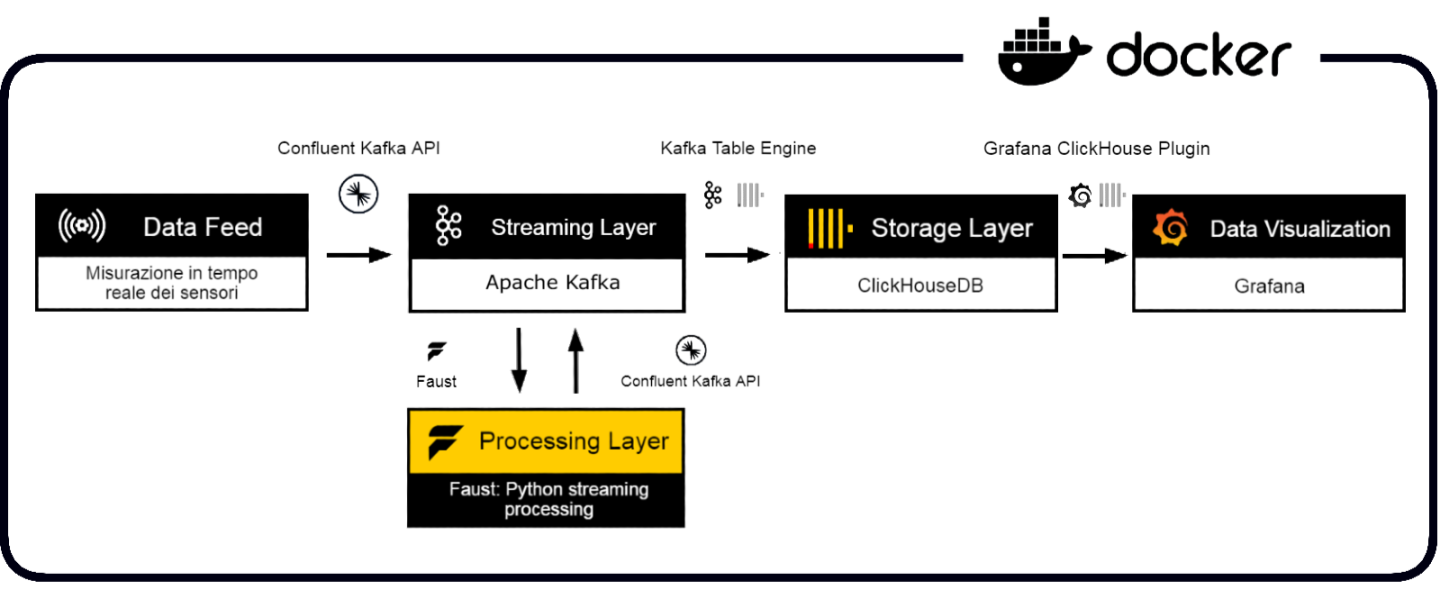
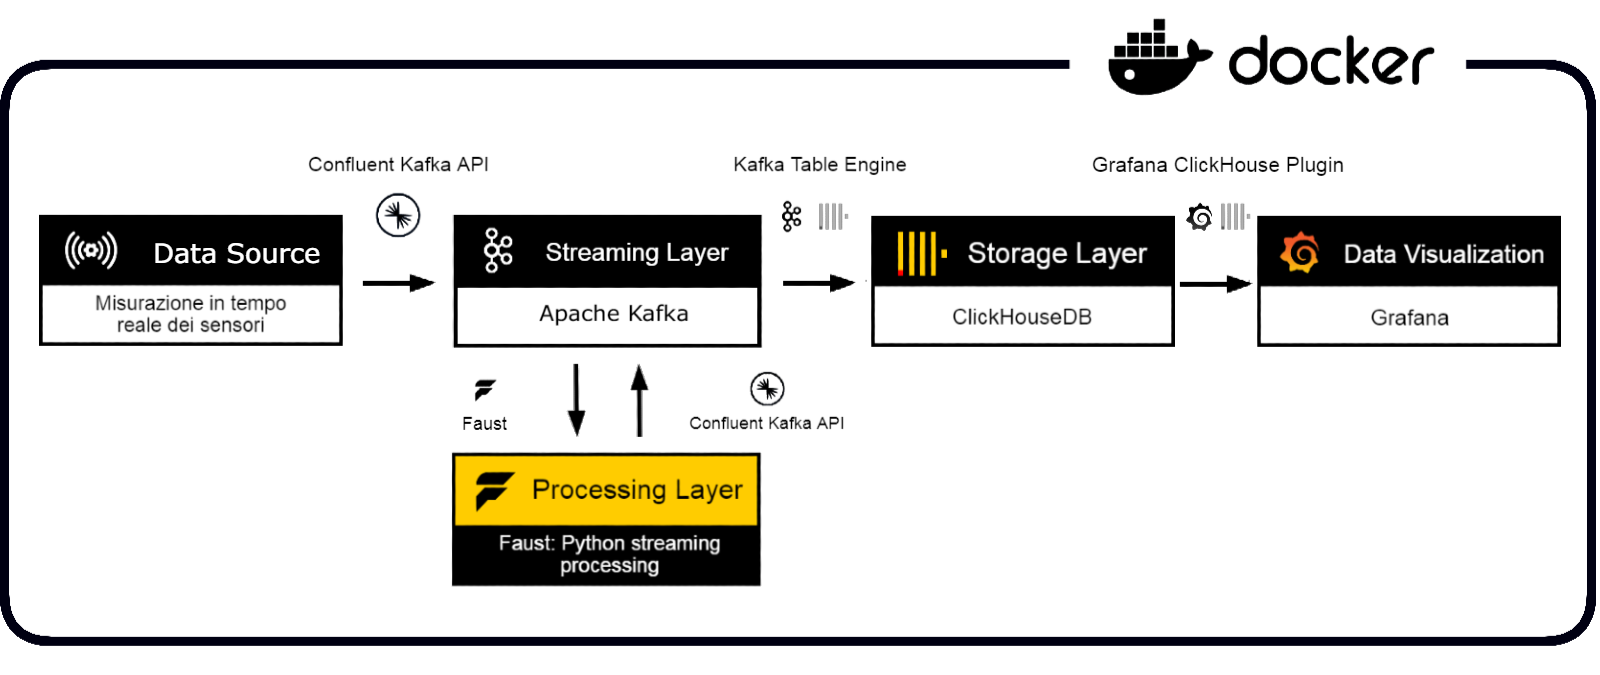
riferimenti

diff --git a/Documenti_Interni/Sottosezioni/Specifica_tecnica/Grafana_config.tex b/Documenti_Interni/Sottosezioni/Specifica_tecnica/Grafana_config.tex
@@ -31,7 +31,8 @@ Per soddisfare tutti i requisiti definiti in \textit{Analisi dei requisiti v2.0.
 
 
 \subsubsection{ClickHouse data source plugin} \label{sec:click_plugin}
-\paragraph{Documentazione:} \href{https://grafana.com/grafana/plugins/grafana-clickhouse-datasource/}{https://grafana.com/grafana/plugins/grafana-clickhouse-datasource/}
+\paragraph{Documentazione:}
+\href{https://grafana.com/grafana/plugins/grafana-clickhouse-datasource/}{https://grafana.com/grafana/plugins/grafana-clickhouse-datasource/}
 
 Questo plugin di grafana consente di connettersi a un'istanza di ClickHouse e di visualizzare i dati in tempo reale. È possibile eseguire query SQL personalizzate e visualizzare i risultati in forma di grafici, tabelle e pannelli personalizzati. Il plugin offre anche funzionalità di aggregazione e di calcolo dei dati, consentendo di analizzare e visualizzare i dati in modo flessibile e personalizzato.
 
@@ -49,15 +50,16 @@ Quelle utilizzate sono:
 \end{itemize}
 
 \subsubsection{Variabili Grafana}
-\paragraph*{Documentazione:} \href{https://grafana.com/docs/grafana/latest/dashboards/variables/}{https://grafana.com/docs/grafana/latest/dashboards/variables/}
+\paragraph*{Documentazione:}
+ \href{https://grafana.com/docs/grafana/latest/dashboards/variables/}{https://grafana.com/docs/grafana/latest/dashboards/variables/}
 
 
  Le variabili in Grafana sono un potente strumento per rendere le dashboard dinamiche e interattive. Permettono di filtrare i dati visualizzati in base a valori scelti dall'utente, rendendo la dashboard più versatile e adattabile a differenti esigenze.
 \paragraph*{Utilizzo delle variabili nella dashboard principale:}
 Nella dashboard principale, le variabili sono:
 \begin{itemize}
-    \item \textbf{variabile \$cella}: per mostrare solo le misurazioni provenienti da determinate celle della città, 
-    \item \textbf{variabili \$<TipoSensore>\_sensors\_id}: per mostrare le misurazioni di determinati sensori di un certo tipo.
+    \item \textbf{variabile (\$cella)}: per mostrare solo le misurazioni provenienti da determinate celle della città, 
+    \item \textbf{variabili (\$<TipoSensore>\_sensors\_id)}: per mostrare le misurazioni di determinati sensori di un certo tipo.
 \end{itemize}
 Queste variabili all'interno delle query al database permettono il filtraggio delle misurazioni sulla base di quanto selezionato dall'utente.
 Un esempio di query per la visualizzazione delle misurazioni time-series di temperatura è:
@@ -73,22 +75,27 @@ La query esposta mostra anche l'utilizzo delle macro esposte in: \ref{sec:macros
 \paragraph*{Utilizzo delle variabili nella dashboard dedicata:}
 Nella dashboard dedicata alla visualizzazione spefica delle misurazioni di una sola tipologia di sensori, le variabili sono:
 \begin{itemize}
-    \item \textbf{variabile \$cella}: per mostrare solo le misurazioni provenienti da determinate celle della città, 
-    \item \textbf{variabili \$<TipoSensore>\_sensors\_id}: per mostrare le misurazioni di determinati sensori di un certo tipo.
-    \item \textbf{variabili \$tabella}: per selezionare la tipoligia di sensore di cui si vuole visualizzare la dashboard dedicata e quindi la tabella del database da cui ricavare i dati.
-    \item \textbf{\$aggregazione}: variabile per selezionare l'intervallo temporale di aggregazione delle misurazioni
+    \item \textbf{variabile (\$cella)}: per mostrare solo le misurazioni provenienti da determinate celle della città, 
+    \item \textbf{variabili (\$<TipoSensore>\_sensors\_id)}: per mostrare le misurazioni di determinati sensori di un certo tipo.
+    \item \textbf{variabili (\$tabella)}: per selezionare la tipoligia di sensore di cui si vuole visualizzare la dashboard dedicata e quindi la tabella del database da cui ricavare i dati.
+    \item \textbf{(\$aggregazione)}: variabile per selezionare l'intervallo temporale di aggregazione delle misurazioni
     (Automatico, Secondo,Minuto,Ora,Giorno,Mese,Nessuno).
     Nel caso della selezione della modalità "Automatico" si utilizzza l'intervallo temporale di aggregazione più opportuno sulla base dell'ampiezza dell'intervallo temporale selezionato dall'utente.
-    \item \textbf{\$Max\_value}: variabile ad input numerico per filtrare le misurazioni con valore al di sotto di quello indicato.
-    \item \textbf{\$Min\_value}: variabile ad input numerico per filtrare le misurazioni con valore al di sopra di quello indicato.
+    \item \textbf{(\$Max\_value)}: variabile ad input numerico per filtrare le misurazioni con valore al di sotto di quello indicato.
+    \item \textbf{(\$Min\_value)}: variabile ad input numerico per filtrare le misurazioni con valore al di sopra di quello indicato.
 \end{itemize}
 \paragraph{Variable Panel plugin}
-\textbf{Documentazione:} \href{https://volkovlabs.io/plugins/volkovlabs-variable-panel/}{https://volkovlabs.io/plugins/volkovlabs-variable-panel/}
+\textbf{Documentazione:}
+\href{https://volkovlabs.io/plugins/volkovlabs-variable-panel/}{https://volkovlabs.io/plugins/volkovlabs-variable-panel/}
+
+
 Il plugin permette di creare dei pannelli grafana che possono essere posizionati ovunque nella Dashboard e che consentono di selezionare i valori delle variabili.
 Inoltre permette la visualizzazione ad albero delle variabili utile nel nostro caso dove i sensori sono contenuti all'interno di celle della città.
 
 \subsubsection{Grafana alerts}
-\textbf{Documentazione}\href{https://grafana.com/docs/grafana/latest/alerting/}{https://grafana.com/docs/grafana/latest/alerting/}
+\textbf{Documentazione}
+
+\href{https://grafana.com/docs/grafana/latest/alerting/}{https://grafana.com/docs/grafana/latest/alerting/}
 
 
 Grafana offre un sistema di alerting completo per monitorare i dati e inviare notifiche quando si verificano determinate condizioni. Le notifiche possono essere inviate tramite diversi canali, tra cui email, Slack, Telegram e Discord.
@@ -97,7 +104,7 @@ Grafana offre un sistema di alerting completo per monitorare i dati e inviare no
 Per poter configurare un alert è necessario creare una regola di alert. La regola di alert viene impostata tramite query al data source e fa scattare l'alert quando la query restituisce un risultato che soddisfa le condizioni impostate.
 Gli alert impostati sono per:
 \begin{itemize}
-    \item Quando un sensore di temperatura registra una temperatura superiore ai 40°C;
+    \item Quando un sensore di temperatura registra una temperatura superiore ai 40°C o inferiore ai -10°C;
     \item Quando un sensore di polveri sottili supera i 50 microgrammi al metro cubo;
     \item Quando un sensore di guasti elettrici rileva un guasto.
 \end{itemize}
@@ -120,11 +127,19 @@ Per il progetto è stato scelto Discord come unico canale di notifica.
 Per configurare il canale di notifica è necessario:
 \begin{itemize}
     \item Seleziona Discord come canale di notifica.
+    \item Configurazione Server Discord "Innovacity":
+    \begin{itemize}
+        \item Il server discord è stato creato ed è raggiungibile tramite l'indirizzo: \href{https://discord.gg/cCp9qxK7}{https://discord.gg/cCp9qxK7}
+        \item Per ottenerre il webhook URL del canale Discord andare in : \textit{Impostazioni server/Integrazioni} e seleziona "visualizza webhook".
+    \end{itemize}
     \item Inserisci il webhook URL del tuo canale Discord.
     \item Personalizza il messaggio di notifica.
+    
 \end{itemize}
 
 Anche le impostazioni di configurazione del canale di notifica sono esportabili in formato \textit{yaml} e vengono inserite in "/provisioning/alerting".
+
+
 
 \paragraph{Notification policies}
 Le norme di notifica negli Alert di Grafana sono un modo potente per gestire l'invio degli alert a diversi canali di notifica.
@@ -135,7 +150,9 @@ Anche le impostazioni delle notification policies sono esportabili in formato \t
 
 \subsubsection{Altri plugin utilizzati}
 \paragraph{Orchestra Cities Map plugin}
-\textbf{Documentazione:} \href{https://grafana.com/grafana/plugins/orchestracities-map-panel/}{https://grafana.com/grafana/plugins/orchestracities-map-panel/}
+\textbf{Documentazione:}
+
+\href{https://grafana.com/grafana/plugins/orchestracities-map-panel/}{https://grafana.com/grafana/plugins/orchestracities-map-panel/}
 
 Il plugin Orchestra Cities Map per Grafana estende il pannello Geomap di Grafana con diverse funzionalità avanzate per la visualizzazione di dati geolocalizzati su mappe:
 

diff --git a/Documenti_Interni/Sottosezioni/Specifica_tecnica/Riferimenti.tex b/Documenti_Interni/Sottosezioni/Specifica_tecnica/Riferimenti.tex
@@ -1,1 +1,38 @@
 \subsection{Riferimenti}
+\subsubsection{Riferimenti normativi}
+\begin{itemize}
+    \item \textit{Norme di progetto v2.0.0}
+    \item Capitolato d'appalto C6 - InnovaCity: \href{url}{url}
+\end{itemize}
+
+\subsubsection{Riferimenti informativi}
+\begin{itemize}
+    \item "Clean Code" di Robert C. Martin;
+    \item \textit{Analisi dei Requisiti v2.0.0}
+    \item \textbf{Documentazione Confluent kafka python}\href{https://developer.confluent.io/get-started/python/}{Confluent Kafka}
+    \item \textbf{Documentazione Faust:} \href{https://faust.readthedocs.io/en/latest/}{https://faust.readthedocs.io/en/latest/}
+    \item \textbf{Documentazione Pytest:} \href{https://docs.pytest.org/en/7.1.x/contents.html}{https://docs.pytest.org/en/7.1.x/contents.html}
+    \item \textbf{Documentazione Pylint:} \href{https://pylint.readthedocs.io/en/stable/}{https://pylint.readthedocs.io/en/stable/}
+    \item \textbf{Documentazione Clickhouse-connect:} \href{https://clickhouse.com/docs/en/integrations/python}{https://clickhouse.com/docs/en/integrations/python}
+    \item \textbf{Documentazione Kafka:} \href{https://kafka.apache.org/20/documentation.html}{https://kafka.apache.org/20/documentation.html}
+    \item \textbf{Documentazione ZooKeeper:} \href{https://zookeeper.apache.org/documentation.html}{https://zookeeper.apache.org/documentation.html}
+    \item \textbf{Documentazione Clickhouse:} \href{https://clickhouse.com/docs/en/intro}{https://clickhouse.com/docs/en/intro}
+    \item \textbf{Documentazione Schema Registry:} \href{https://docs.confluent.io/platform/current/schema-registry/index.html}{https://docs.confluent.io/platform/current/schema-registry/index.html}
+    \item \textbf{Documentazione Grafana:} \href{https://grafana.com/docs/grafana/latest/}{https://grafana.com/docs/grafana/latest/}
+    \item \textbf{Documentazione Materialized View - Clickhouse:} \href{https://clickhouse.com/docs/en/guides/developer/cascading-materialized-views}{https://clickhouse.com/docs/en/guides/developer/cascading-materialized-views}
+    \item \textbf{Documentazione Merge Tree - Clickhouse:} \href{https://clickhouse.com/docs/en/engines/table-engines/mergetree-family/mergetree#mergetree}{https://clickhouse.com/docs/en/engines/table-engines/mergetree-family/mergetree\#mergetree}
+    \item \textbf{Documentazione TTL - Clickhouse:} \href{https://clickhouse.com/docs/en/guides/developer/ttl#implementing-a-rollup}{https://clickhouse.com/docs/en/guides/developer/ttl\#implementing-a-rollup}
+    \item \textbf{Documentazione Partition - Clickhouse:} \href{https://clickhouse.com/docs/en/engines/table-engines/mergetree-family/mergetree#partition-by}{https://clickhouse.com/docs/en/engines/table-engines/mergetree-family/mergetree\#partition-by}
+    \item \textbf{Documentazione Projection - Clickhouse:} \href{https://clickhouse.com/docs/en/sql-reference/statements/alter/projection}{https://clickhouse.com/docs/en/sql-reference/statements/alter/projection}
+    \item \textbf{Altra fonte utile Projection - Clickhouse} \href{https://presentations.clickhouse.com/percona2021/projections.pdf}{https://presentations.clickhouse.com/percona2021/projections.pdf}
+    \item  \textbf{Variable Panel plugin - Grafana} \href{https://volkovlabs.io/plugins/volkovlabs-variable-panel/}{https://volkovlabs.io/plugins/volkovlabs-variable-panel/}
+    \item  \textbf{Alerts - Grafana} \href{https://grafana.com/docs/grafana/latest/alerting/}{https://grafana.com/docs/grafana/latest/alerting/}
+    \item \textbf{Variables - Grafana} \href{https://grafana.com/docs/grafana/latest/dashboards/variables/}{https://grafana.com/docs/grafana/latest/dashboards/variables/}
+    \item  \textbf{Notification policies - Grafana} \href{https://grafana.com/docs/grafana/latest/alerting/alerting-rules/create-notification-policy/}{https://grafana.com/docs/grafana/latest/alerting/alerting-rules/create-notification-policy/}
+    \item  \textbf{Orchestra Cities Map plugin - Grafana} \href{https://grafana.com/grafana/plugins/orchestracities-map-panel/}{https://grafana.com/grafana/plugins/orchestracities-map-panel/}
+    \item \textbf{Documentazione Docker:} \href{https://docs.docker.com/}{https://docs.docker.com/}
+    \item \textbf{Documentazione Docker Compose:} \href{https://docs.docker.com/compose/}{https://docs.docker.com/compose/}
+    \item \textbf{Kappa Architecture: Stream Processing in Big Data Analytics:} \href{https://medium.com/data-and-beyond/kappa-architecture-stream-processing-in-big-data-analytics-e539f4bf63cd}{https://medium.com/data-and-beyond/kappa-architecture-stream-processing-in-big-data-analytics-e539f4bf63cd}
+    \item  \textbf{A microservice architecture for real-time IoT data processing:}  \href{https://www.sciencedirect.com/science/article/pii/S0920548921000994}{https://www.sciencedirect.com/science/article/pii/S0920548921000994}
+    \item \textbf{How to Deploy Microservice Architecture in Docker?} \href{https://middleware.io/blog/microservices-architecture-docker/}{https://middleware.io/blog/microservices-architecture-docker/}
+\end{itemize}

diff --git a/Documenti_Interni/Sottosezioni/Specifica_tecnica/Faust_processing.tex b/Documenti_Interni/Sottosezioni/Specifica_tecnica/Faust_processing.tex
@@ -4,7 +4,12 @@
 
 Per soddisfare il requisito opzionale del calcolo del punteggio di salute, si è scelto di utilizzare Faust, una libreria \textit{Python}\textsubscript{\textit{G}} ispirata al modello di \textit{Kafka}\textsubscript{\textit{G}} Streams. Faust facilita l'elaborazione di flussi di dati distribuiti in tempo reale, rendendola ideale per questo caso d'uso.
 Offre un'interfaccia di alto livello che astrae le complessità di \textit{Kafka}\textsubscript{\textit{G}}, rendendo la raccolta dati semplice e intuitiva.
-Inolltre Faust è progettato per essere scalabile e può essere utilizzato per gestire grandi volumi di dati.
+Inoltre Faust è progettato per essere scalabile e può essere utilizzato per gestire grandi volumi di dati.
+
+\paragraph*{Faust \& Schema Registry} 
+Faust deserializza i messaggi dei topic in conformità allo schema definito nello Schema Registry. Qualora si riscontrino messaggi non conformi, essi vengono eliminati. I messaggi validi vengono successivamente processati e instradati verso un topic dedicato all'interno di Kafka.
+
+La gestione della connessione allo Schema Registry è integrata in Faust. Dopo aver fornito l'indirizzo dello Schema Registry nella configurazione dell'applicazione Faust, Faust stesso si occupa di validare i messaggi in base allo schema registrato per il relativo topic.
 
 \paragraph*{Calcolo del Punteggio}
 Il punteggio di salute rappresenta un indicatore sintetico del benessere generale di una città, misurandolo in base a diversi aspetti chiave. In questo caso, le tre tipologie di misurazioni considerate sono:
@@ -33,25 +38,26 @@ Il calcolo del punteggio avviene in due fasi:
 \begin{itemize}
     \item \textbf{Applicazione Faust:}
     \begin{lstlisting}[style=code]
-        faust.App(<nome_app>, \textit{broker}\textsubscript{\textit{G}}=<broker_kafka>)
+        faust.App(<nome_app>, broker=<broker_kafka>)
     \end{lstlisting} 
     \begin{itemize}
         \item Un'applicazione Faust è un \textit{programma}\textsubscript{\textit{G}} \textit{Python}\textsubscript{\textit{G}} che elabora flussi di dati in tempo reale da \textit{Kafka}\textsubscript{\textit{G}}.
-        \item \textbf{nome\_app}: Identifica l'applicazione.
+        \item \textbf{nome\_app}: Identifica l'applicazione, coincide con il \textit{ConsumerGroup} di Kafka.
         \item \textbf{broker\_kafka}: Indirizzo del \textit{broker}\textsubscript{\textit{G}} \textit{Kafka}\textsubscript{\textit{G}} (hostname:porta).
+        \item Importante configurare l'applicazione con l'indirizzo dello Schema Registry per garantire a la validazione e deserializzazione dei messaggi.
     \end{itemize}
     \item \textbf{Topic:}
     \begin{lstlisting}[style=code]
         app.topic(<nome_topic>, value_type=<tipo_dato>)
     \end{lstlisting}  
     \begin{itemize}
-        \item \textbf{nome\_topic}: Nome del topic \textit{Kafka}\textsubscript{\textit{G}}.
+        \item \textbf{nome\_topic}: Nome del topic \textit{Kafka}\textsubscript{\textit{G}} a cui iscrivere l'app Faust.
         \item \textbf{tipo\_dato:} Classe che rappresenta il tipo di dato del topic (es. FaustMeasurement).
-        \item Nel caso si voglia aggiungere altri topic da cui consumare dati basterà aggiungerne prima del parametro value\_type.
+        \item Nel caso si voglia aggiungere altri topic da cui consumare dati basterà aggiungerne prima del parametro value\_type separati da virgole.
     \end{itemize}
     \item \textbf{Tipo di dato atteso:}
      \begin{lstlisting}[style=code]
-        class FaustMeasurement(faust.Record)
+        class FaustMeasurement(faust.Record, serializer='json')
     \end{lstlisting}  
     \begin{itemize}
         \item È una classe che eredita da \textbf{faust.Record}.
@@ -87,6 +93,21 @@ Il calcolo del punteggio avviene in due fasi:
     \end{itemize}
 \end{itemize}
 
+\subsubsection{Processing layer Data-flow}
+Di seguito esposto il flusso dei dati per il calcolo del punteggio di salute.
+
+\begin{figure}[H]
+    \centering
+    \includegraphics[width=0.8\textwidth]{../Images/SpecificaTecnica/faustFlow.png}
+    \caption{Faust Data-flow}
+    \label{fig: FaustDataflow}
+\end{figure}
+In breve:
+\begin{enumerate}
+    \item Faust ottiene le misurazioni dai topic;
+    \item Tramite una porta di accesso le fornisce al modello per il calcolo del punteggio;
+    \item Quando l'applicazione Faust viene avviata questa avvia anche un Thread che periodicamente ottiene i punteggi di salute calcolati sulla base delle misurazioni ottenute da Faust e tramite il modulo Writer li invia al topic kafka dedicato.
+\end{enumerate}
 \subsubsection{Modello per il calcolo del punteggio di salute}
 \begin{figure}[H]
     \centering

diff --git a/Documenti_Interni/Sezioni/Specifica_tecnica/Tabella_requisiti.tex b/Documenti_Interni/Sezioni/Specifica_tecnica/Tabella_requisiti.tex
@@ -241,35 +241,35 @@ una colonna Stato indicante la soddisfazione di tale requisito.
 
     %RF58
     \hline
-    \stepcounter{rowcounter} RF\arabic{rowcounter} & Opzionale & L'utente deve poter salvare in una lista di misurazioni rilevanti una misurazione trasmessa da un \textit{sensore}\textsubscript{\textit{G}}.& Soddisfatto \\
+    \stepcounter{rowcounter} RF\arabic{rowcounter} & Opzionale & L'utente deve poter salvare in una lista di misurazioni rilevanti una misurazione trasmessa da un \textit{sensore}\textsubscript{\textit{G}}.& Non soddisfatto \\
     
     %RF59
     \hline
-    \stepcounter{rowcounter} RF\arabic{rowcounter} & Opzionale & Il \textit{sistema}\textsubscript{\textit{G}} deve effettuare una verifica prima di salvare la misurazione tra le misurazioni rilevanti, assicurandosi che il dato non sia già presente in tale lista.& Soddisfatto \\
+    \stepcounter{rowcounter} RF\arabic{rowcounter} & Opzionale & Il \textit{sistema}\textsubscript{\textit{G}} deve effettuare una verifica prima di salvare la misurazione tra le misurazioni rilevanti, assicurandosi che il dato non sia già presente in tale lista.& Non soddisfatto \\
     
     %RF60
     \hline
-    \stepcounter{rowcounter} RF\arabic{rowcounter} & Opzionale & L'utente deve poter visualizzare la lista delle misurazioni rilevanti.& Soddisfatto \\
+    \stepcounter{rowcounter} RF\arabic{rowcounter} & Opzionale & L'utente deve poter visualizzare la lista delle misurazioni rilevanti.& Non soddisfatto \\
     
     %RF61
     \hline
-    \stepcounter{rowcounter} RF\arabic{rowcounter} & Opzionale & Ogni misurazione nella lista dei rilevanti deve fornire l'identificativo del \textit{sensore}\textsubscript{\textit{G}} che ha effettuato la misurazione.& Soddisfatto \\
+    \stepcounter{rowcounter} RF\arabic{rowcounter} & Opzionale & Ogni misurazione nella lista dei rilevanti deve fornire l'identificativo del \textit{sensore}\textsubscript{\textit{G}} che ha effettuato la misurazione.& Non soddisfatto \\
 
     %RF62
     \hline
-    \stepcounter{rowcounter} RF\arabic{rowcounter} & Opzionale & Ogni misurazione nella lista dei rilevanti deve fornire la tipologia del \textit{sensore}\textsubscript{\textit{G}} che ha effettuato la misurazione.& Soddisfatto \\
+    \stepcounter{rowcounter} RF\arabic{rowcounter} & Opzionale & Ogni misurazione nella lista dei rilevanti deve fornire la tipologia del \textit{sensore}\textsubscript{\textit{G}} che ha effettuato la misurazione.& Non soddisfatto \\
 
     %RF63
     \hline
-    \stepcounter{rowcounter} RF\arabic{rowcounter} & Opzionale & Ogni misurazione nella lista dei rilevanti deve fornire l'orario e la data di misurazione.& Soddisfatto \\
+    \stepcounter{rowcounter} RF\arabic{rowcounter} & Opzionale & Ogni misurazione nella lista dei rilevanti deve fornire l'orario e la data di misurazione.& Non soddisfatto \\
 
     %RF64
     \hline
-    \stepcounter{rowcounter} RF\arabic{rowcounter} & Opzionale & Ogni misurazione nella lista dei rilevanti deve fornire il valore misurato e la relativa unità di misura.& Soddisfatto \\
+    \stepcounter{rowcounter} RF\arabic{rowcounter} & Opzionale & Ogni misurazione nella lista dei rilevanti deve fornire il valore misurato e la relativa unità di misura.& Non soddisfatto \\
 
     %RF65
     \hline
-    \stepcounter{rowcounter} RF\arabic{rowcounter} & Opzionale & L'utente deve poter rimuovere una misurazione dalla lista delle misurazioni rilevanti.& Soddisfatto \\
+    \stepcounter{rowcounter} RF\arabic{rowcounter} & Opzionale & L'utente deve poter rimuovere una misurazione dalla lista delle misurazioni rilevanti.& Non soddisfatto \\
 
     %RF66
     \hline

diff --git a/Documenti_Interni/Sottosezioni/Specifica_tecnica/Database_config.tex b/Documenti_Interni/Sottosezioni/Specifica_tecnica/Database_config.tex
@@ -11,7 +11,7 @@ Le tipologie di sensori cui misurazioni si vogliono trattare nel progetto sono:
     \item Sensori di guasti elettrici;
     \item Sensori di presenza dell'acqua.
 \end{itemize}
-
+Oltre alla misurazioni dei sensori, si è deciso di memorizzare anche i punteggi di salute delle celle calcolati. Questi punteggi vengono calcolati in base alle misurazioni dei sensori e vengono memorizzati in una tabella apposita.
 La progettazione del database ClickHouse è cruciale, poiché un'adeguata ottimizzazione consente di garantire prestazioni ottimali per un sistema orientato al tempo reale e in grado di gestire analisi su enormi volumi di dati.
 
 
@@ -438,3 +438,23 @@ Le considerazioni concernenti l'archiviazione delle misurazioni dei sensori di l
 \end{figure}
 
 %_____________________________________________________________________________
+
+\subsubsection{Punteggi di salute}
+Viene create anche una tabella dedicata alla persistenza dei punteggi di salute nel tempo calcolati per ogni cella della città. La tabella di destinazione ClickHouse è nominata ‘HealthScores’, i campi sono: cella (String), value (Float32), timestamp(DATETIME64).
+
+
+\begin{figure}[H]
+  \centering
+  \includegraphics[width=1\textwidth]{../Images/SpecificaTecnica/waterPresence.png}
+  \caption{Tabella HealthScore\_kafka e HealthScore}
+  \label{fig:HealthScore_tables}
+\end{figure}
+
+\paragraph(Time to Live)
+La tabella dedicata alle misurazioni di salute include la configurazione di un TTL (Time-to-Live) che consente l'aggregazione dei dati dopo un mese dal timestamp della "misurazione" in una singola "misurazione" per cella e per ora. Questo approccio consente di ridurre l'utilizzo dello spazio di archiviazione e accelerare il tempo di interrogazione, mantenendo comunque un livello di dettaglio adeguato per le analisi.
+
+
+
+
+
+

diff --git a/Documenti_Interni/Sezioni/Specifica_tecnica/Architettura.tex b/Documenti_Interni/Sezioni/Specifica_tecnica/Architettura.tex
@@ -24,7 +24,7 @@ L'\textit{architettura}\textsubscript{\textit{G}} Kappa è un modello di elabora
 \end{figure}
 
 \begin{itemize}
-    \item \textbf{Data feed}:Le sorgenti dati sono costituite da sensori IoT dislocati sul territorio cittadino. Questi sensori sono in grado di inviare, ad intervalli regolari, messaggi contenenti misurazioni allo streaming layer;
+    \item \textbf{Data source}:Le sorgenti dati sono costituite da sensori IoT dislocati sul territorio cittadino. Questi sensori sono in grado di inviare, ad intervalli regolari, messaggi contenenti misurazioni allo streaming layer;
     \item \textbf{Streaming layer}:Lo streaming layer gestisce i dati in arrivo in tempo reale, per poi archiviarli sistematicamente nello \textit{storage}\textsubscript{\textit{G}} layer. Lo streaming Layer è composto da:
     \begin{itemize}
         \item \textbf{Apache Kafka}: \textit{Kafka}\textsubscript{\textit{G}} è un \textit{sistema}\textsubscript{\textit{G}} di messaggistica distribuito che consente di pubblicare, sottoscrivere e archiviare messaggi in tempo reale. \textit{Kafka}\textsubscript{\textit{G}} è utilizzato per ricevere i dati dai sensori IoT e renderli disponibili per l'elaborazione in tempo reale e batch.

diff --git a/Documenti_Interni/Sottosezioni/Specifica_tecnica/Scopo_del_documento.tex b/Documenti_Interni/Sottosezioni/Specifica_tecnica/Scopo_del_documento.tex
@@ -3,7 +3,7 @@ Il presente documento si propone come una risorsa esaustiva per la comprensione 
 
 Nel contesto dell'architettura implementativa, è prevista un'analisi approfondita che si estenda anche al livello di design più dettagliato. Ciò include la definizione e la spiegazione dettagliata dei design pattern e degli idiomi utilizzati nel contesto del progetto.
 
-Gli obbiettivi del presente documento sono: motivare le scelte di sviluppo adottate, fungere da guida fondamentale per l'attività di codifica ed infine garantire una completa copertura dei requisiti identificati nel documento \textit{Analisi dei Requisiti v2.0.0}.
+Gli obbiettivi del presente documento sono: motivare le scelte di sviluppo adottate, fungere da guida fondamentale per l'attività di codifica e manutenzione del prodotto "InnovaCity" ed infine garantire una completa copertura dei requisiti identificati nel documento \textit{Analisi dei Requisiti v2.0.0}.
 
 
 \begin{comment}

diff --git a/Documenti_Interni/Sottosezioni/Specifica_tecnica/Kafka.tex b/Documenti_Interni/Sottosezioni/Specifica_tecnica/Kafka.tex
@@ -3,8 +3,8 @@
 Apache Kafka è una piattaforma open-source di streaming distribuito sviluppata da Apache Software Foundation. È progettata per la gestione di flussi di dati in tempo reale in modo scalabile, affidabile e efficiente. Kafka è utilizzato ampiamente nell'ambito del data streaming e del data integration in molte applicazioni moderne.
 \paragraph{Versione}
 La versione utilizzata è: 3.7.0
-\paragraph{Link download}
-\href{https://kafka.apache.org/downloads}{https://kafka.apache.org/downloads}
+\paragraph{Documentazione}
+\href{https://kafka.apache.org/20/documentation.html}{https://kafka.apache.org/20/documentation.html}
 
 \paragraph{Funzionalità e Vantaggi di Apache Kafka}
 Le principali funzionalità e vantaggi di Apache Kafka includono:

diff --git a/Documenti_Interni/Sottosezioni/Specifica_tecnica/Clickhouse.tex b/Documenti_Interni/Sottosezioni/Specifica_tecnica/Clickhouse.tex
@@ -2,8 +2,8 @@
 Clickhouse è un sistema di gestione di database (DBMS) di tipo column-oriented, progettato principalmente per l'analisi di grandi volumi di dati in tempo reale. È un progetto open-source sviluppato da Yandex, un motore di ricerca russo, ed è stato creato per rispondere alle esigenze di elaborazione analitica ad alte prestazioni.
 \paragraph{Versione}
 La versione utilizzata è: 24.1.6.52
-\paragraph{Link download}
-\href{https://clickhouse.com/}{https://clickhouse.com/}
+\paragraph{Documentazione:}
+\href{https://clickhouse.com/docs/en/intro}{https://clickhouse.com/docs/en/intro}
 
 \paragraph{Funzionalità e Vantaggi di Clickhouse}
 \begin{itemize}

diff --git a/Documenti_Interni/Sottosezioni/Specifica_tecnica/schemaRegistry.tex b/Documenti_Interni/Sottosezioni/Specifica_tecnica/schemaRegistry.tex
@@ -1,5 +1,9 @@
 \subsubsection{Schema Registry}
 Schema Registry è un componente importante nell'ecosistema di Apache Kafka, progettato per la gestione e la convalida degli schemi dei dati utilizzati all'interno di un sistema di messaggistica distribuita.
+\paragraph{Versione}
+La versione utilizzata è: 
+\paragraph{Documentazione}
+\href{https://docs.confluent.io/platform/current/schema-registry/index.html}{https://docs.confluent.io/platform/current/schema-registry/index.html}
 
 \paragraph{Funzionalità e Vantaggi di Schema Registry}
 Le funzionalità principali di Schema Registry includono:

diff --git a/Documenti_Interni/Sottosezioni/Specifica_tecnica/Glossario.tex b/Documenti_Interni/Sottosezioni/Specifica_tecnica/Glossario.tex
@@ -3,13 +3,3 @@ Per evitare possibili ambiguità che potrebbero sorgere durante la lettura dei d
 alcuni termini utilizzati sono stati inseriti nel documento \textit{Glossario v 2.0.0 }.
 Sarà possibile individuare il riferimento al Glossario per mezzo
 di una G a pedice del termine.
-\subsubsection{Riferimenti normativi}
-\begin{itemize}
-    \item \textit{Norme di progetto v2.0.0}
-    \item Capitolato d'appalto C6 - InnovaCity: \href{url}{url}
-\end{itemize}
-
-\subsubsection{Riferimenti informativi}
-\begin{itemize}
-    \item \textit{Analisi dei Requisiti v2.0.0}
-\end{itemize}

diff --git a/Documenti_Interni/Sottosezioni/Specifica_tecnica/Grafana.tex b/Documenti_Interni/Sottosezioni/Specifica_tecnica/Grafana.tex
@@ -2,8 +2,8 @@
 Grafana è una piattaforma open-source per la visualizzazione e l'analisi dei dati, utilizzata per creare dashboard interattive e grafici da fonti di dati eterogenee. 
 \paragraph{Versione}
 La versione utilizzata è: x.x.x
-\paragraph{Link download}
-\href{https://clickhouse.com/}{https://clickhouse.com/}
+\paragraph{Documentazione}
+\href{https://grafana.com/docs/grafana/latest/}{https://grafana.com/docs/grafana/latest/}
 
 \paragraph{Funzionalità e Vantaggi di Grafana}
 \begin{itemize}
